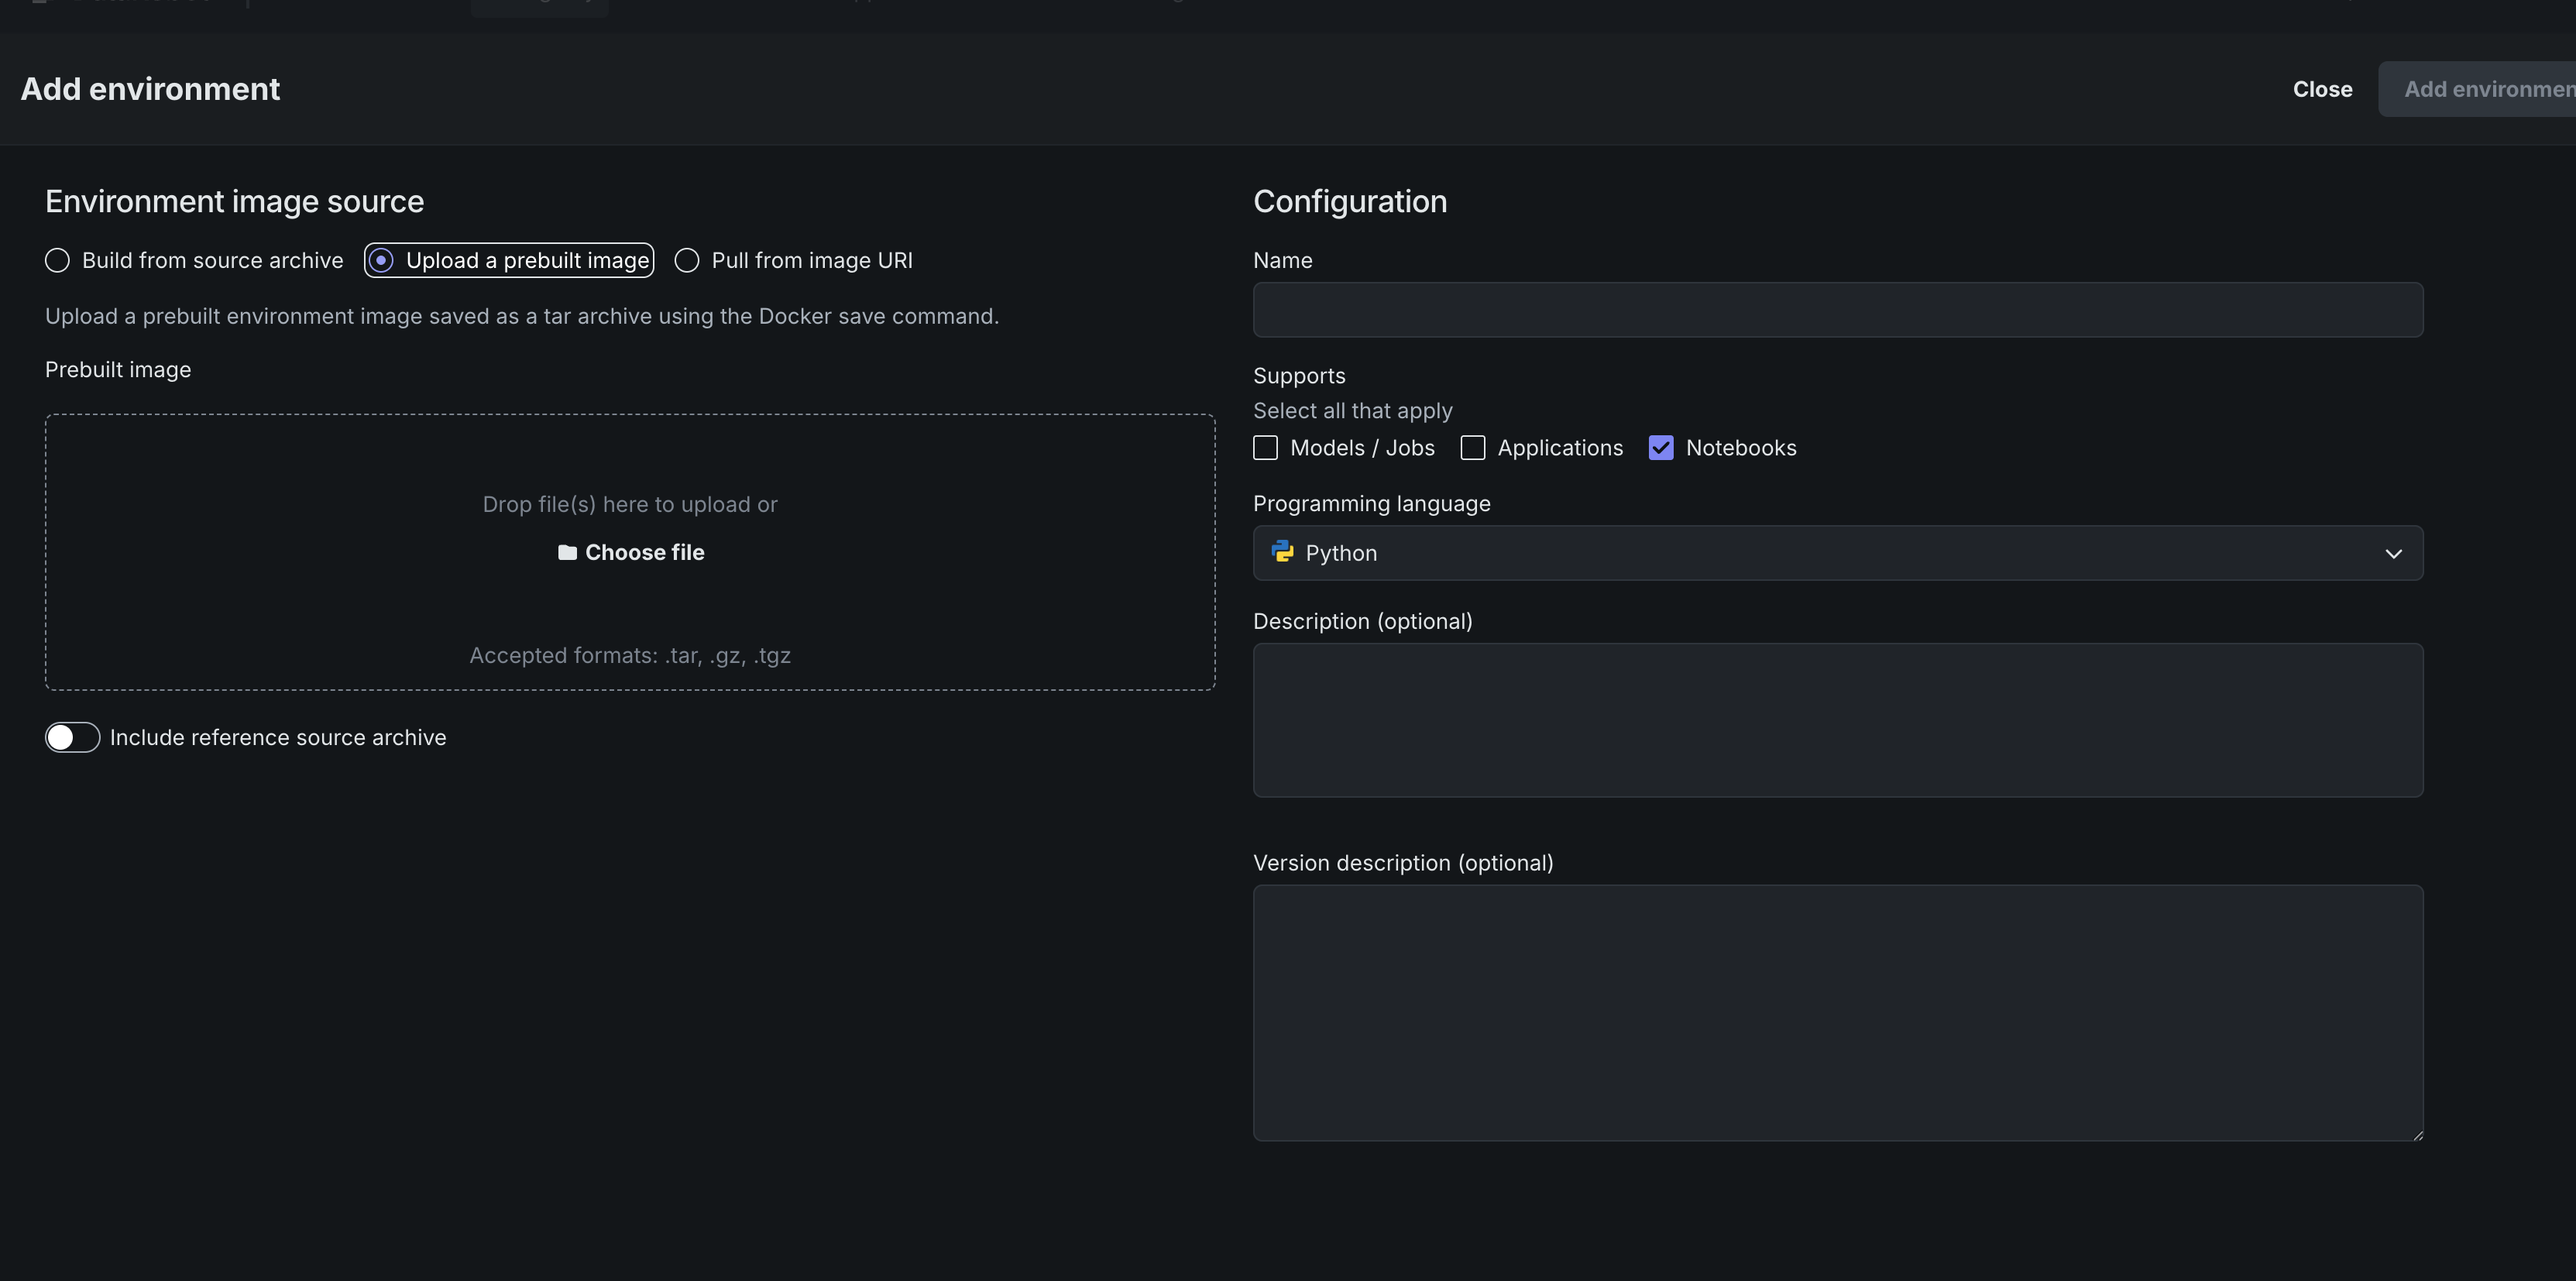
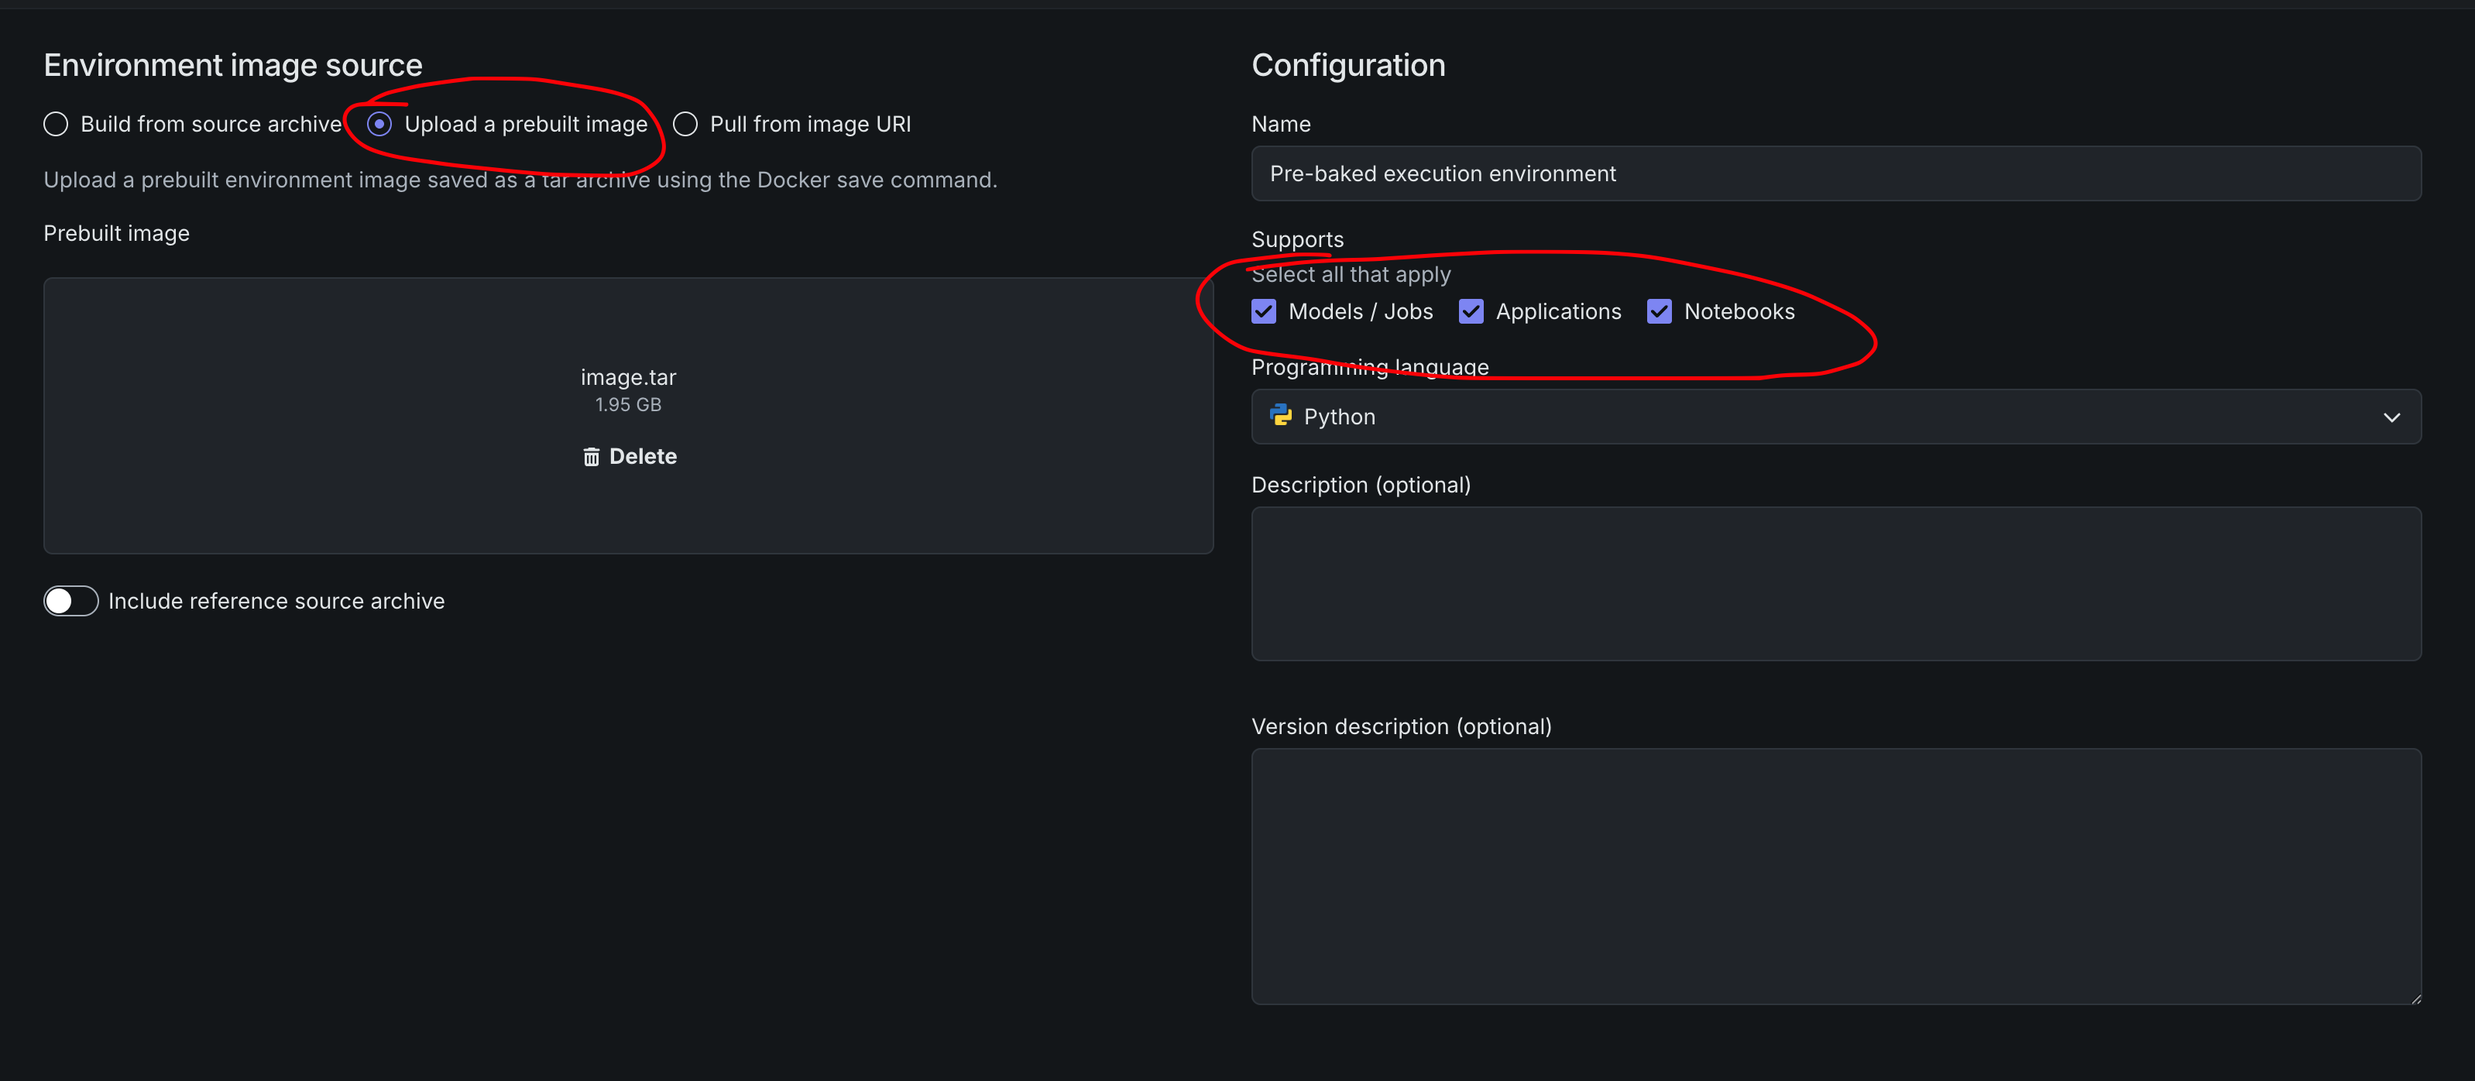
Improve docs

diff --git a/README.md b/README.md
@@ -5,9 +5,7 @@ Build Codespace-ready execution environment Docker contexts for DataRobot App Fr
 ## Install
 
 ```bash
-uv tool install .
-# or
-uv pip install -e .
+uv tool install -e .
 ```
 
 ## Make an execution environment
